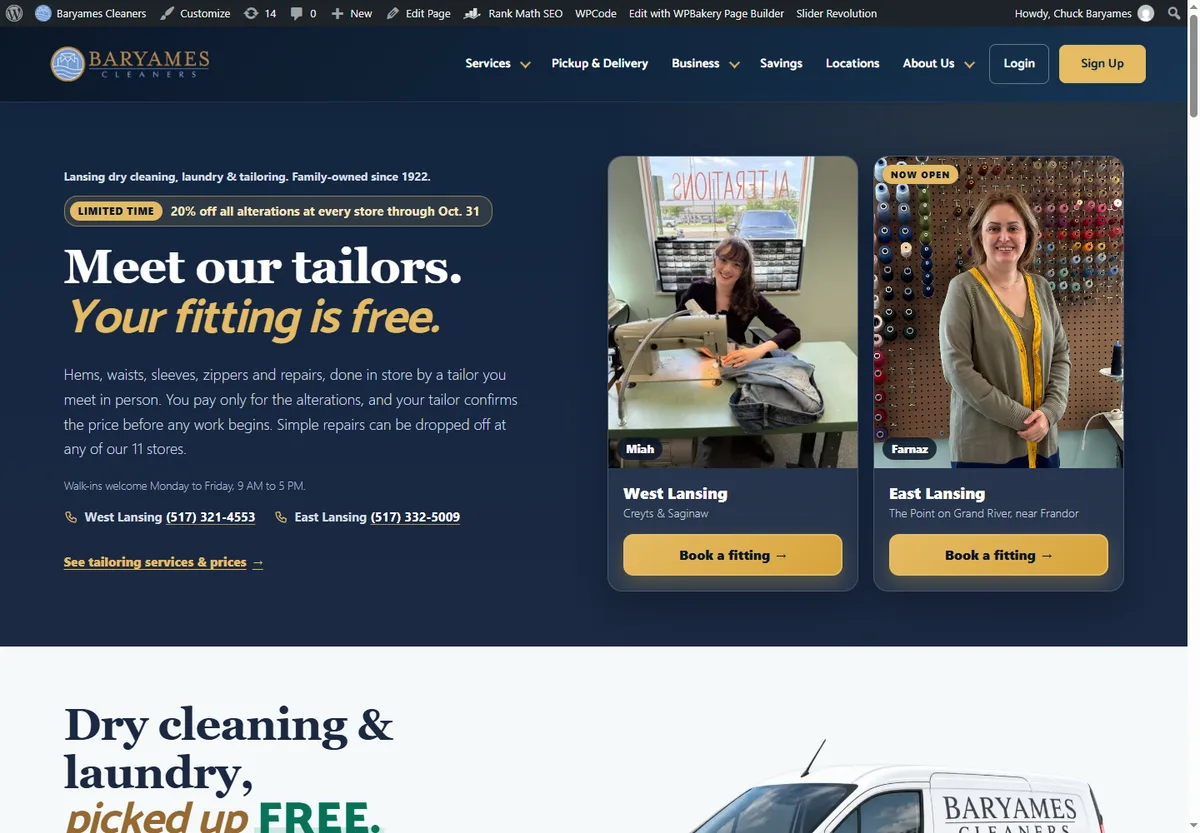
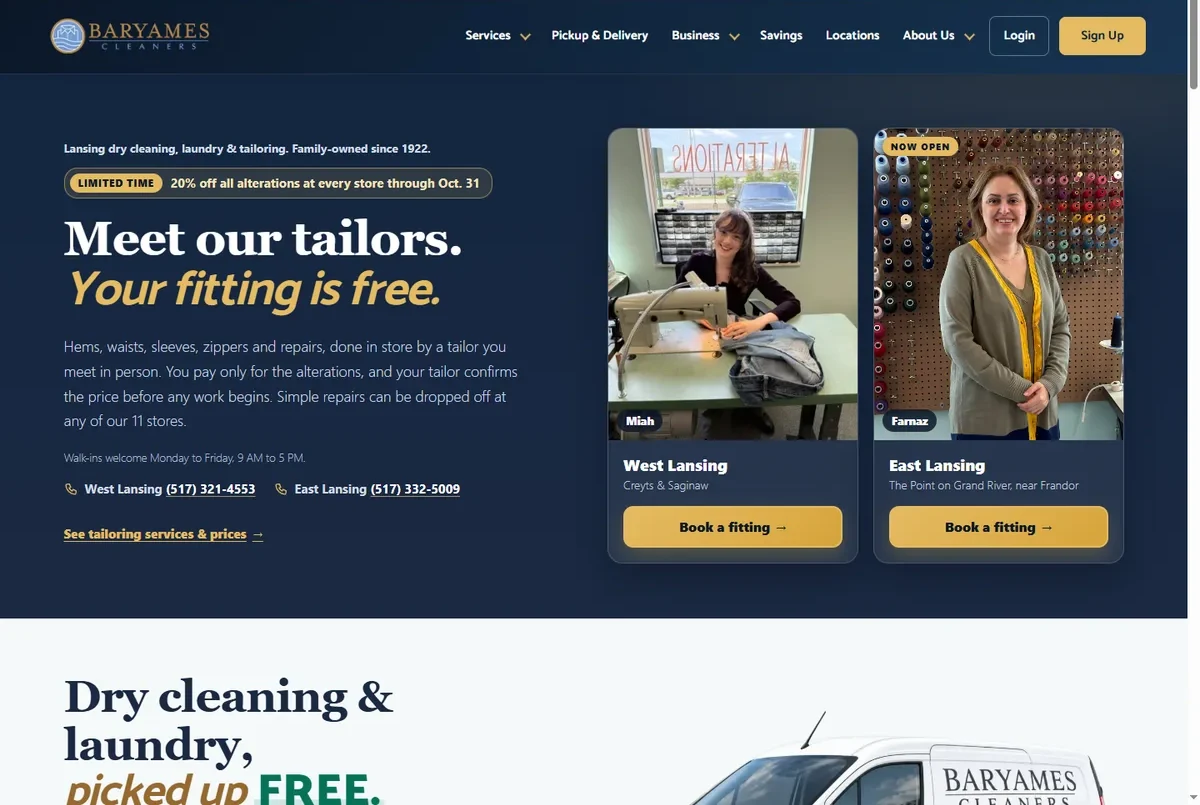
fix: remove admin toolbar pixels from historical proof assets

diff --git a/components/PortfolioHome.tsx b/components/PortfolioHome.tsx
@@ -7,9 +7,9 @@ import s from "./PortfolioHome.module.css";
 
 const asset = "/portfolio/20261004";
 const projects = [
-  { id: "baryames", name: "Baryames Cleaners", role: "Family business", type: "Website, Google Ads, email and video", url: "https://baryamescleaners.com/", problem: "Customers need to find the right service and know how to book, sign up, or get in touch.", work: "I redesigned and developed the website. I also handle its tailoring Google Ads, iContact email campaigns, and video.", result: "Tailoring appointments, pickup signup, and service information now have direct links to act.", before: "baryames-before.webp", beforeLabel: "Homepage opening, before the October 3 update", beforeWidth: 1200, beforeHeight: 833 },
+  { id: "baryames", name: "Baryames Cleaners", role: "Family business", type: "Website, Google Ads, email and video", url: "https://baryamescleaners.com/", problem: "Customers need to find the right service and know how to book, sign up, or get in touch.", work: "I redesigned and developed the website. I also handle its tailoring Google Ads, iContact email campaigns, and video.", result: "Tailoring appointments, pickup signup, and service information now have direct links to act.", before: "baryames-before.webp", beforeLabel: "Homepage opening, before the October 3 update", beforeWidth: 1200, beforeHeight: 805 },
   { id: "recovery", name: "Bet on Recovery", role: "My own project", type: "Design, copy and development", url: "https://betonrecovery.org/", problem: "Explain the purpose of a recovery project and make its resources easy to explore.", work: "I designed, wrote, and built the site.", result: "A live website that brings the project’s purpose and resources together.", before: "", beforeLabel: "", beforeWidth: 0, beforeHeight: 0 },
-  { id: "soup-spoon", name: "Soup Spoon Cafe", role: "Catering page and campaign", type: "Website and Google Ads · Lansing", url: "https://soupspooncafe.com/catering-special-events/", problem: "Catering visitors need menu details and a clear way to ask about their event.", work: "I rebuilt the catering page with a quote form and built the Google Ads catering campaign, which I run.", result: "Visitors can review catering options and send an event request from the page.", before: "soup-spoon-before.webp", beforeLabel: "Archived catering page, before the September 5 rebuild", beforeWidth: 720, beforeHeight: 4247 },
+  { id: "soup-spoon", name: "Soup Spoon Cafe", role: "Catering page and campaign", type: "Website and Google Ads · Lansing", url: "https://soupspooncafe.com/catering-special-events/", problem: "Catering visitors need menu details and a clear way to ask about their event.", work: "I rebuilt the catering page with a quote form and built the Google Ads catering campaign, which I run.", result: "Visitors can review catering options and send an event request from the page.", before: "soup-spoon-before.webp", beforeLabel: "Archived catering page, before the September 5 rebuild", beforeWidth: 720, beforeHeight: 4195 },
 ] as const;
 const questions = [
   { q: "What do I get with the free website review?", a: "Three specific things I’d fix on your website, sent by email within 2 business days. It’s a short review, with no obligation to hire me and no required call. The fixes are recommendations; implementation is separate." },

diff --git a/components/PortfolioHome.module.css b/components/PortfolioHome.module.css
@@ -66,7 +66,7 @@
 .before summary { display:flex; justify-content:space-between; align-items:center; min-height:44px; font-size:12px; cursor:pointer; list-style:none; }
 .before summary::-webkit-details-marker { display:none; }
 .beforeImage { max-height:290px; overflow:auto; background:white; }
-.beforeImage img { display:block; width:100%; height:auto; margin-top:-2.3%; }
+.beforeImage img { display:block; width:100%; height:auto; }
 .before figcaption { font-size:10px; color:var(--muted); padding:8px 0; }
 .site .projectLink { display:flex; justify-content:space-between; align-items:center; gap:10px; min-height:44px; margin-top:10px; border-top:1px solid var(--line); padding-top:9px; font-size:12px; font-weight:500; }
 .campaigns { display:grid; grid-template-columns:.85fr 1.25fr .8fr; gap:28px; align-items:start; margin-top:38px; padding-top:30px; border-top:1px solid var(--line); }
